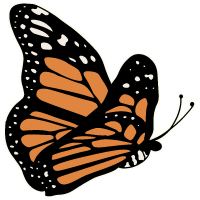
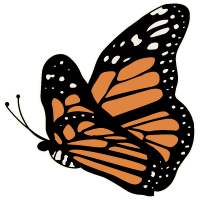
Add files via upload

diff --git a/src/components/Body.css b/src/components/Body.css
@@ -157,6 +157,17 @@ button:hover {
     font-family: 'NeWake';
 }
 
+.middle-section p:first-child {
+    text-align: center;
+}
+
+.middle-section p {
+    width: 80%;
+    margin: 0 auto;
+    line-height: 32px;
+    text-align: center;
+}
+
 .center-text {
     display: flex;
     justify-content: center;
@@ -172,11 +183,11 @@ button:hover {
 }
 
 .emoji {
-    font-size: 35px;
+    font-size: 45px;
 }
 
 .bg-img {
-    background-image: url('../img/bg-image.jpg');
+    background-image: url('../img/landscape-bg-2.png');
     background-size: cover;
     background-repeat: no-repeat;
 }
@@ -185,42 +196,44 @@ button:hover {
     display: grid;
     grid-template-columns: 50% 50%;
     height: 100vh;
+    row-gap: 3em;
 }
 
-.animation-grid-two {
-    display: none;
-}
 
 .butterfly-1 {
     width: max-content;
     height: max-content;
     position: relative;
-    animation-name: moveInTop, bf-giltch-1;
+    animation-name: fadeIn, bf-giltch-1;
     animation-timing-function: ease, ease-in-out;
-    animation-duration: 4s, 3s;
+    animation-duration: 5s, 3s;
+    animation-delay: 3s, 5s;
     animation-iteration-count: 1, infinite;
     animation-direction: normal, alternate;
+    animation-fill-mode: both;
 }
 
 .bf-1 {
-    height: 120px;
+    height: 90px;
     margin-left: 40px;
-    margin-top: 20px;
+    margin-top: 50px;
 }
 
 .butterfly-2 {
     width: max-content;
     height: max-content;
     position: relative;
-    animation-name: moveInRightSide, bf-giltch-2;
+    animation-name: fadeIn, bf-giltch-2;
     animation-timing-function: ease, ease;
-    animation-duration: 4s, 3s;
+    animation-duration: 5s, 3s;
+    animation-delay: 3s, 5s;
     animation-iteration-count: 1, infinite;
     animation-direction: normal, alternate;
+    animation-fill-mode: both;
 }
 
 .bf-2 {
-    height: 155px;
+    height: 100px;
     margin-left: 80px;
     margin-top: 110px;
 }
@@ -229,16 +242,41 @@ button:hover {
     width: max-content;
     height: max-content;
     position: relative;
-    animation-name: moveInRightSide, bf-giltch-2;
+    animation-name: fadeIn, bf-giltch-1;
     animation-timing-function: ease, ease-in-out;
-    animation-duration: 4s, 3s;
+    animation-duration: 5s, 3s;
+    animation-delay: 3s, 5s;
     animation-iteration-count: 1, infinite;
     animation-direction: normal, alternate;
+    animation-fill-mode: both;
 }
 
 .bf-3 {
-    height: 115px;
-    margin-left: 125px;
+    height: 80px;
+    margin-left: 50px;
+    margin-top: 300px;
+}
+
+.butterfly-4 {
+    width: max-content;
+    height: max-content;
+    position: relative;
+    animation-name: fadeIn, bf-giltch-2;
+    animation-timing-function: ease, ease;
+    animation-duration: 5s, 3s;
+    animation-delay: 3s, 5s;
+    animation-iteration-count: 1, infinite;
+    animation-direction: normal, alternate;
+    animation-fill-mode: both;
+}
+
+.animation-grid-two .butterfly-4 {
+    z-index: -1;
+}
+
+.bf-4 {
+    height: 90px;
+    margin-left: 175px;
     margin-top: 300px;
 }
 
@@ -247,6 +285,18 @@ button:hover {
 
 /* Media Queries */
 
+@media (min-width: 2560px) {
+    .animation-grid {
+        height: 100vh;
+        row-gap: 20em;
+        margin-left: 10%;
+    }
+
+    .middle-section p {
+        width: 55%;
+    }
+}
+
 @media (max-width: 940px) {
 
     .left-side {
@@ -254,15 +304,28 @@ button:hover {
     }
 
     .animation-grid {
-        width: 75%;
+        width: 100%;
+    }
+
+    .animation-grid-two {
+        display: none;
     }
 
     .middle-section h1 {
         font-size: 4.5em;
     }
 
+    .middle-section p {
+        width: 100%;
+        text-align: left;
+    }
+
+    .middle-section p:first-child {
+        padding-top: 5%;
+        text-align: center;
+    }
+
     .bf-3 {
-        height: auto;
         margin-left: 125px;
         margin-top: 100px;
     }
@@ -282,6 +345,23 @@ button:hover {
         grid-template-columns: auto;
     }
 
+    .middle-section {
+        padding-left: 0px;
+    }
+
+      .middle-section p, .middle-section p:first-child {
+        width: 70%;
+        text-align: center;
+    }
+
+    .middle-section p:first-child {
+        padding-top: 5%;
+    }
+
+    .left-side {
+        margin-top: -10%;
+    }
+
     .right-side {
         display: none;
     }
@@ -290,7 +370,12 @@ button:hover {
         display: grid;
     }
 
+    .bf-1 {
+        height: 140px;
+    }
+
     .bf-2 {
+        height: 143px;
         margin-left: 220px;
         margin-top: 115px;
     }
@@ -298,6 +383,15 @@ button:hover {
     .bf-3 {
         height: 115px;
         margin-left: 0px;
+        margin-top: 250px;
+    }
+
+    .butterfly-4 {
+        z-index: -1;
+    }
+
+    .bf-4 {
+        margin-left: 235px;
     }
 
     .hp-p, .hp-btn-group {
@@ -306,6 +400,29 @@ button:hover {
 }
 
 @media (max-width: 500px) {
+
+    .left-side {
+        padding: 0;
+    }
+
+    .middle-section {
+        padding-left: 25px;
+
+    }
+
+    .middle-section p, .middle-section p:first-child {
+        width: 100%;
+        text-align: left;
+    }
+
+    .middle-section p:first-child {
+        padding-top: 5%;
+    }
+
+    .emoji {
+        display: none;
+    }
+
 
     .butterfly-3 {
         z-index: -1;
@@ -317,14 +434,19 @@ button:hover {
     }
 
     .bf-2 {
-        height: 170px;
+        height: 130px;
         margin-left: 20px;
     }
 
     .bf-3 {
         height: auto;
         margin-left: 0px;
-        margin-top: 435px;
+        margin-top: 490px;
+    }
+
+    .bf-4 {
+        margin-left: 125px;
+        margin-top: 445px;
     }
 
     .hp-p, .hp-btn-group {
@@ -334,6 +456,24 @@ button:hover {
     .centerText div {
         padding: 5%;
     }
+}
+
+@media (max-width: 425px) {
+    .middle-section h1 {
+        font-size: 3.5em;
+    }
+}
+
+@media (max-width: 412px) {
+    .center-text.first-child {
+         align-items: start; 
+    }
+}
+
+@media (max-width: 360px) {
+    .bf-4 {
+        margin-left: 90px;
+    } 
 }
 
 /* Media Queries */

diff --git a/src/components/Body.js b/src/components/Body.js
@@ -6,7 +6,7 @@ import Frugal from './Frugal';
 import Port2023 from './Port2023';
 import Buttons from './Buttons';
 import ButterflyOne from '../img/butterfly-1.png';
-import ButterflyTwo from '../img/butterfly-2-2.png';
+import ButterflyTwo from '../img/butterfly-2.png';
 import ButterflyThree from '../img/butterfly-3.png';
 import ButterflyFour from '../img/butterfly-4.png';
 
@@ -44,8 +44,8 @@ const Body = (props) => {
         return (
             <body className='body'>
                 <div className='left-side'>
-                <div className='middle-section' >
-                    <div className='animation-grid animation-grid-two'>
+                <div className='middle-section'>
+                        <div className='animation-grid animation-grid-two'>
                             <div className='img-box-1'>
                                 <div className='butterfly-1'>
                                     <img className='bf-1' src={ButterflyOne} />
@@ -61,14 +61,21 @@ const Body = (props) => {
                                     <img className='bf-3' src={ButterflyThree} />
                                 </div>
                             </div>
+                            <div className='img-box-4'>
+                            <div className='butterfly-4'>
+                                    <img className='bf-4' src={ButterflyFour} />
+                                </div>
+                            </div>
                         </div>
                         <div className="center-text first-child"><h1>Hello, World!</h1></div>
                         <div className="center-text hp-p">
                             <div>
-                                <p><span className="emoji">🙋🏽♀</span>&nbsp;&nbsp;I’m Tiana M.</p>
+                                {/* <p><span className="emoji">🙋🏽♀</span>&nbsp;&nbsp;I’m Tiana M.</p>
                                 <p><span className="emoji">👩🏽💻</span>&nbsp;&nbsp;I design + build websites using:</p>
                                 <p><span className="emoji">💡</span>&nbsp;&nbsp;HTML + CSS + JavaScript + React.js </p>
-                                <p><span className="emoji">👀</span>&nbsp;&nbsp;Looking to join a creative agency. </p>
+        <p><span className="emoji">👀</span>&nbsp;&nbsp;Looking to join a creative agency. </p> */}
+                            <p><span className="emoji">👩🏽💻</span></p>
+                            <p>I'm Tiana. I design and build websites with a focus on accessibility using HTML, CSS, Vanilla JavaScript, Illustrator, and React.js. Currently looking to join a creative agency where I can contribute to designs and websites.</p>
                             </div>
                         </div>
                         <div className='center-text hp-btn-group'>
@@ -96,6 +103,9 @@ const Body = (props) => {
                                 </div>
                             </div>
                             <div className='img-box-4'>
+                            <div className='butterfly-4'>
+                                    <img className='bf-4' src={ButterflyFour} />
+                                </div>
                             </div>
                         </div>
                     </div>

diff --git a/src/App.js b/src/App.js
@@ -1,7 +1,5 @@
 import React from 'react';
 import Body from './components/Body';
-import THL from './components/THL';
-import NBK from './components/NBK';
 
 function App() {
  
